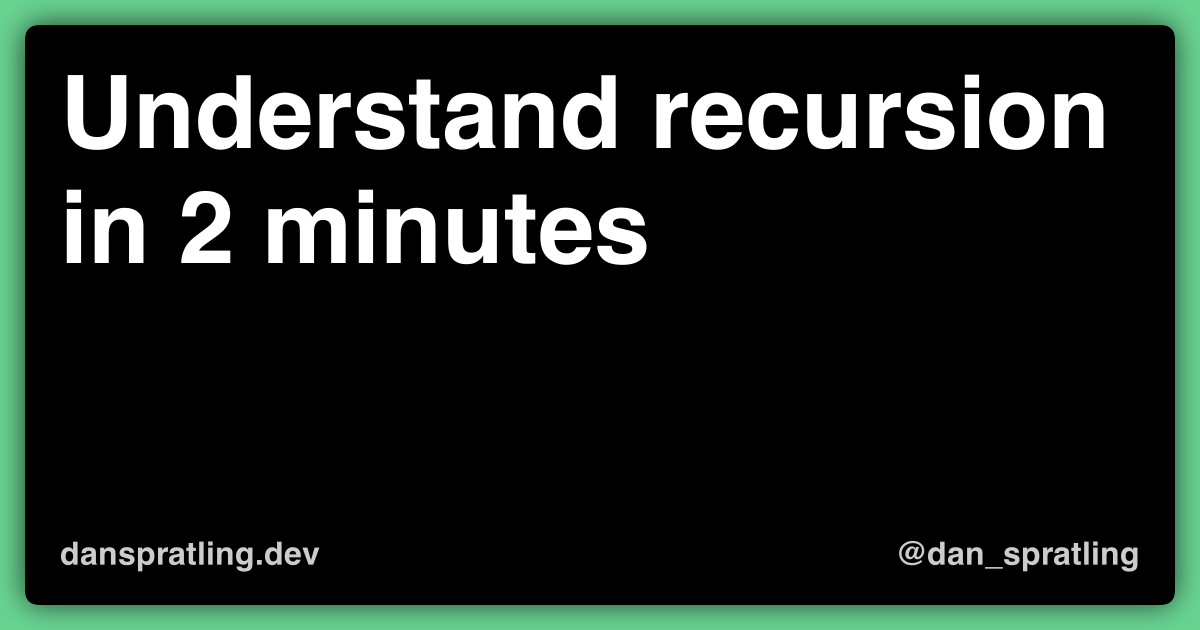
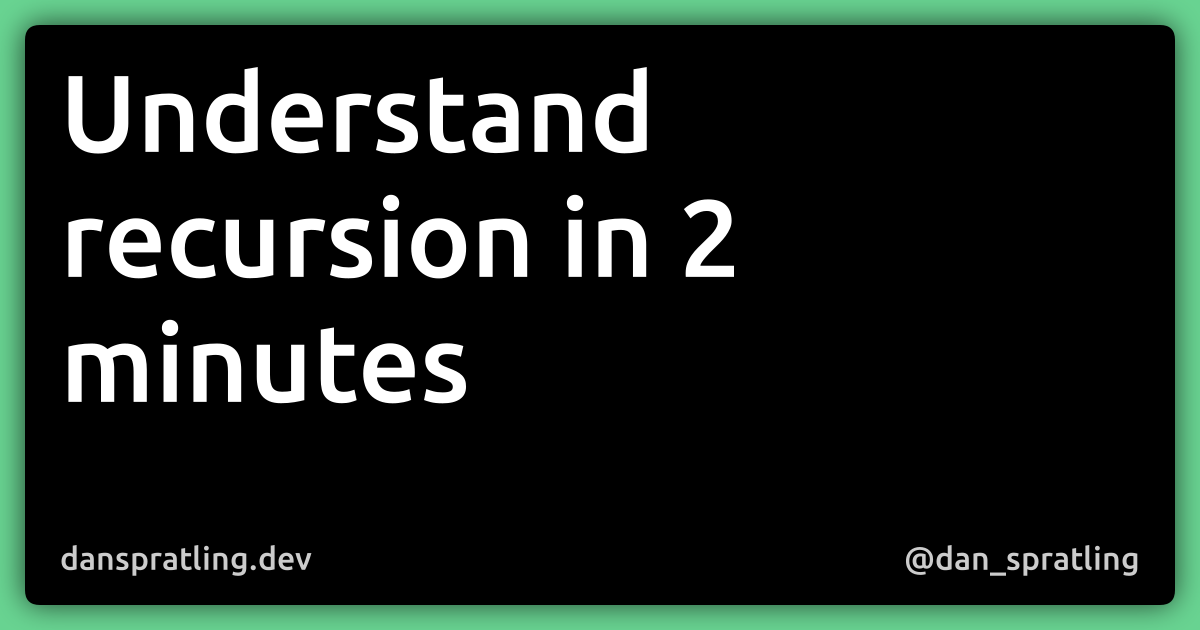
Actually uses ubuntu font in social cards

diff --git a/functions/socialImage.js b/functions/socialImage.js
@@ -1,5 +1,8 @@
 const fs = require('fs')
-const { createCanvas } = require('canvas')
+const { registerFont, createCanvas } = require('canvas')
+registerFont('public/google-fonts/s/ubuntu/v14/4iCv6KVjbNBYlgoCjC3jsGyL.woff', {
+  family: 'Ubuntu',
+})
 
 function generateImage({ title, slug }) {
   //define canvas size
@@ -28,7 +31,7 @@ function generateImage({ title, slug }) {
   // context.fillRect(25, 25, width, height)
 
   //set the copy style
-  context.font = 'bold 76pt Ubuntu'
+  context.font = 'bold 82pt Ubuntu'
   context.textAlign = 'left'
   context.textBaseline = 'top'
   context.fillStyle = '#fff'
@@ -40,13 +43,13 @@ function generateImage({ title, slug }) {
   //redraw the title over multiple lines
   const words = title.split(' ')
   let line = ''
-  let fromTop = 70
+  let fromTop = 50
   words.forEach(word => {
     let testLine = line + word + ' '
     if (context.measureText(testLine).width > width) {
       context.fillText(line.trim(), 60, fromTop)
       line = word + ' '
-      fromTop = fromTop + 115
+      fromTop = fromTop + 125
     } else {
       line = line + word + ' '
     }

diff --git a/src/templates/post.js b/src/templates/post.js
@@ -41,7 +41,7 @@ const Post = ({ data, pageContext }) => {
 
 //Graphql query getting all the data we need from contentful (gatsby-config.js)
 export const query = graphql`
-  query getProject($id: String!) {
+  query getPost($id: String!) {
     contentfulPost(contentful_id: { eq: $id }) {
       title
       description
